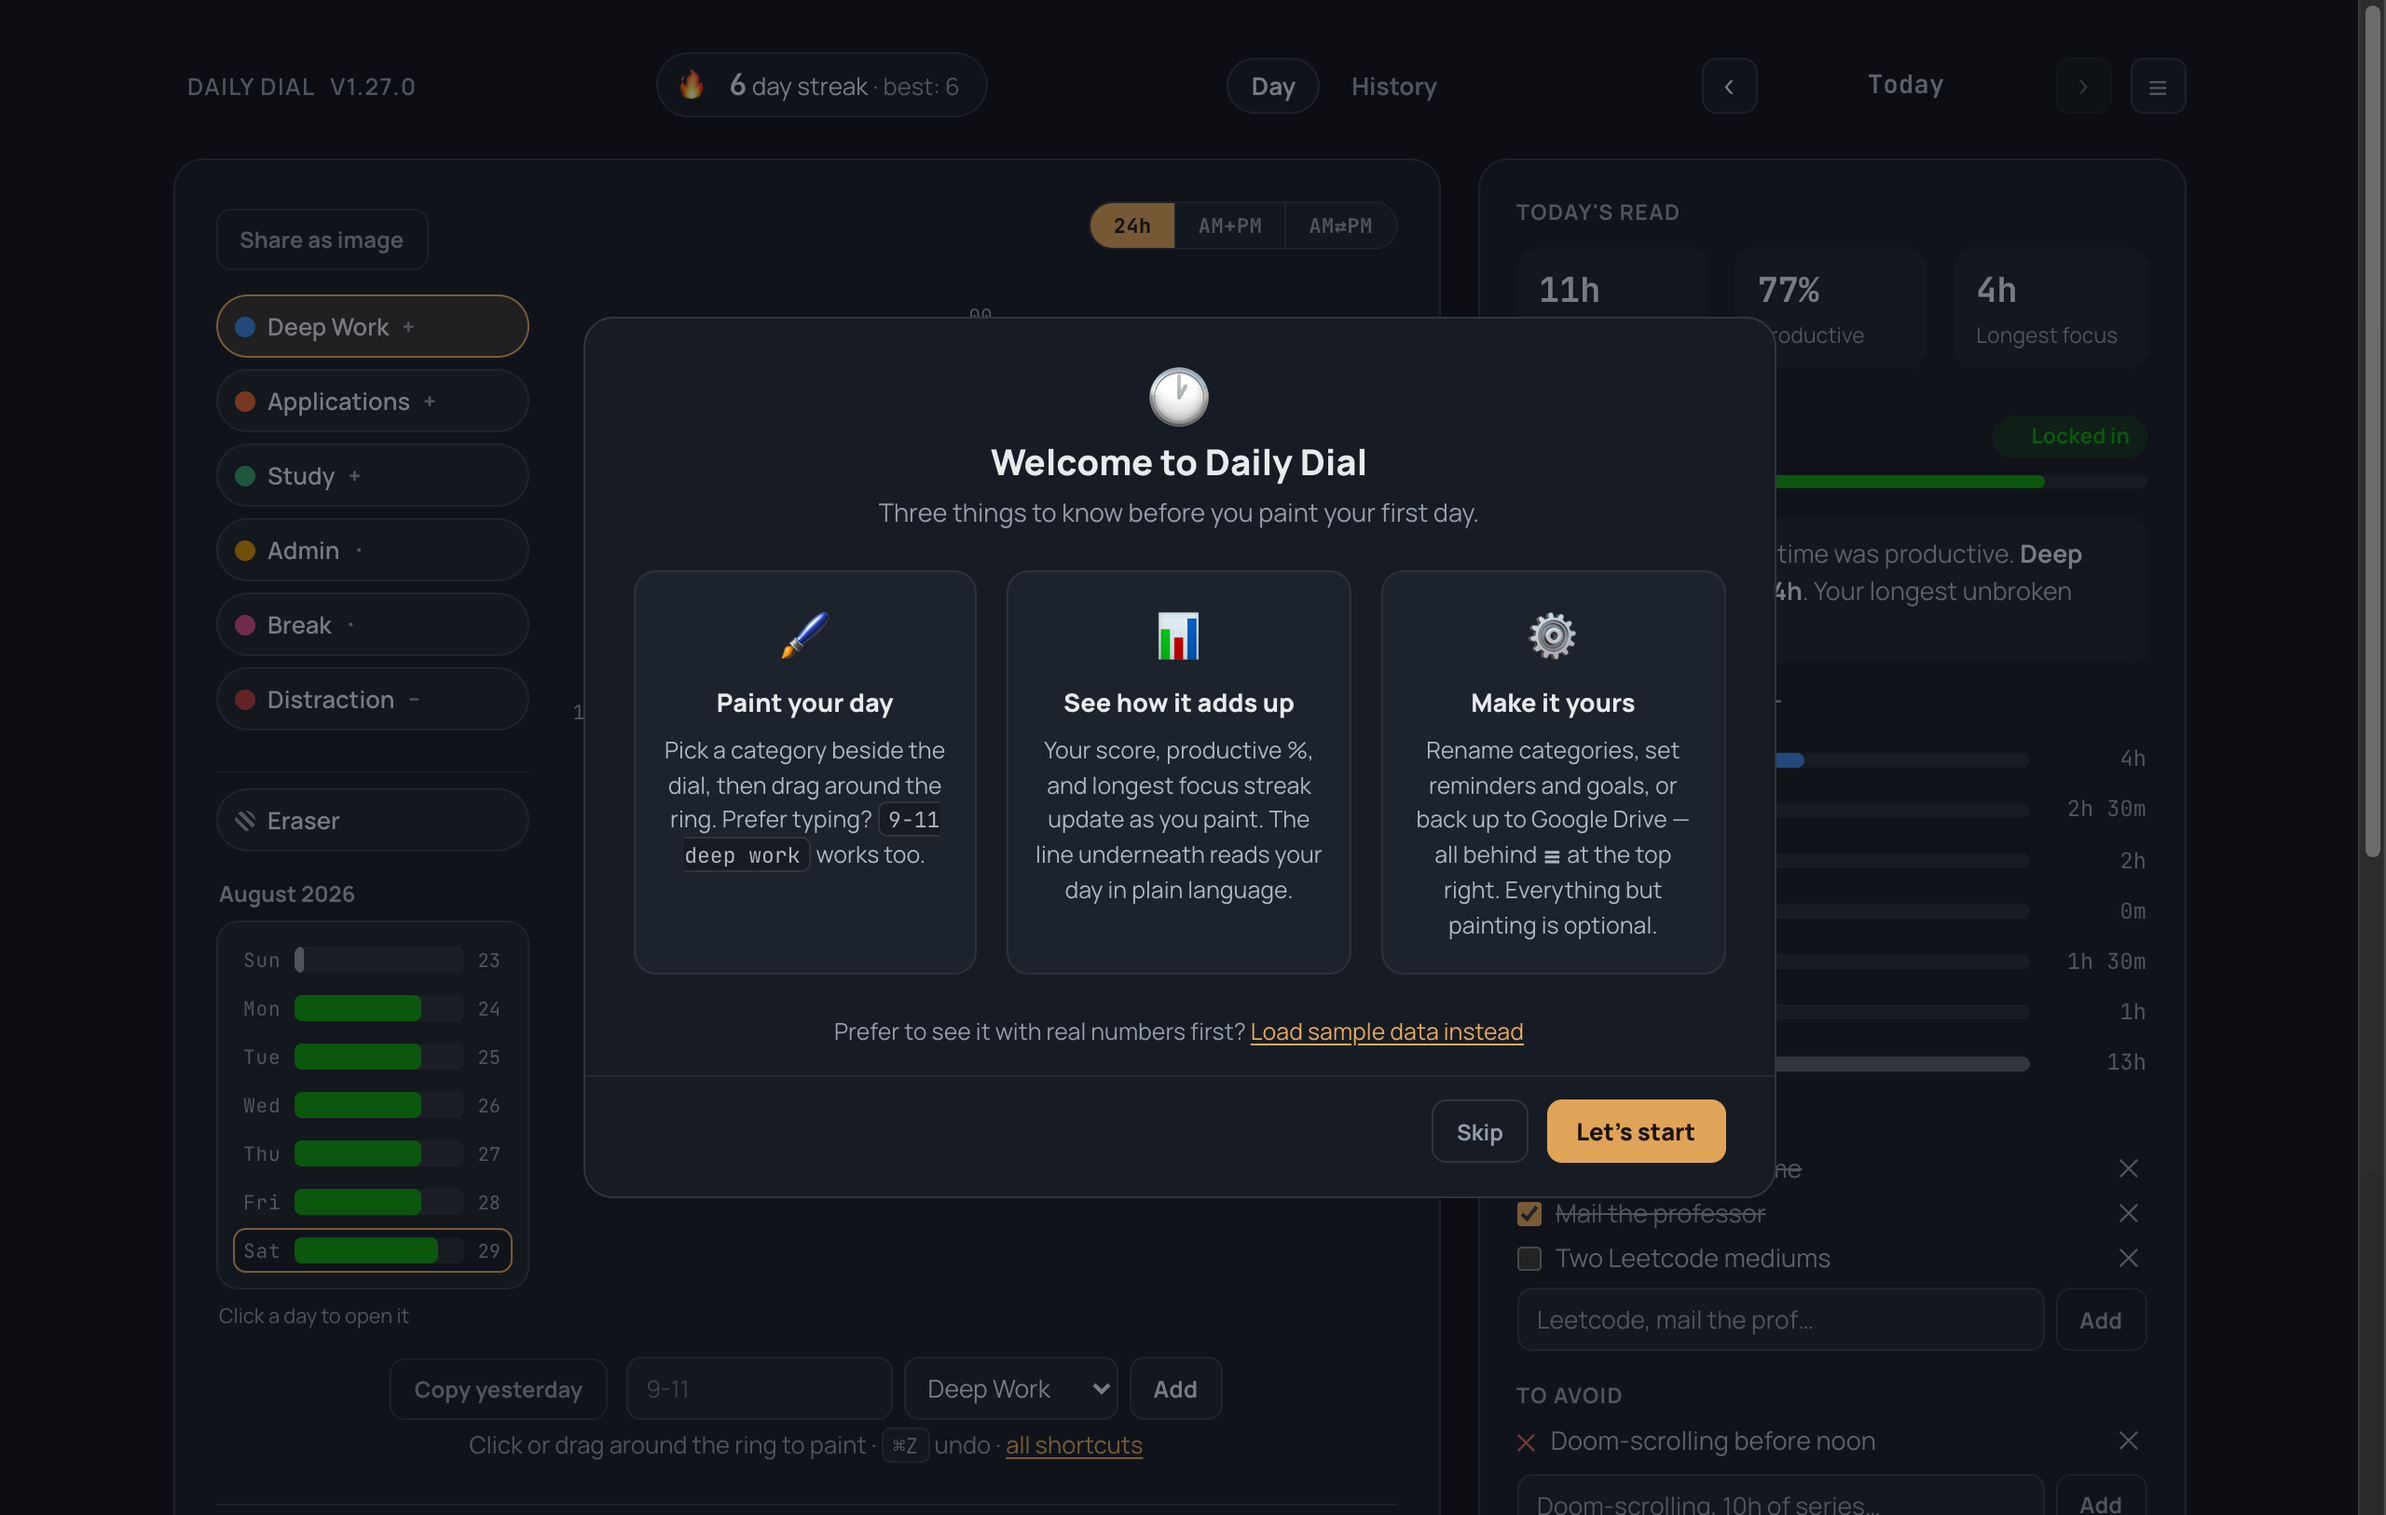
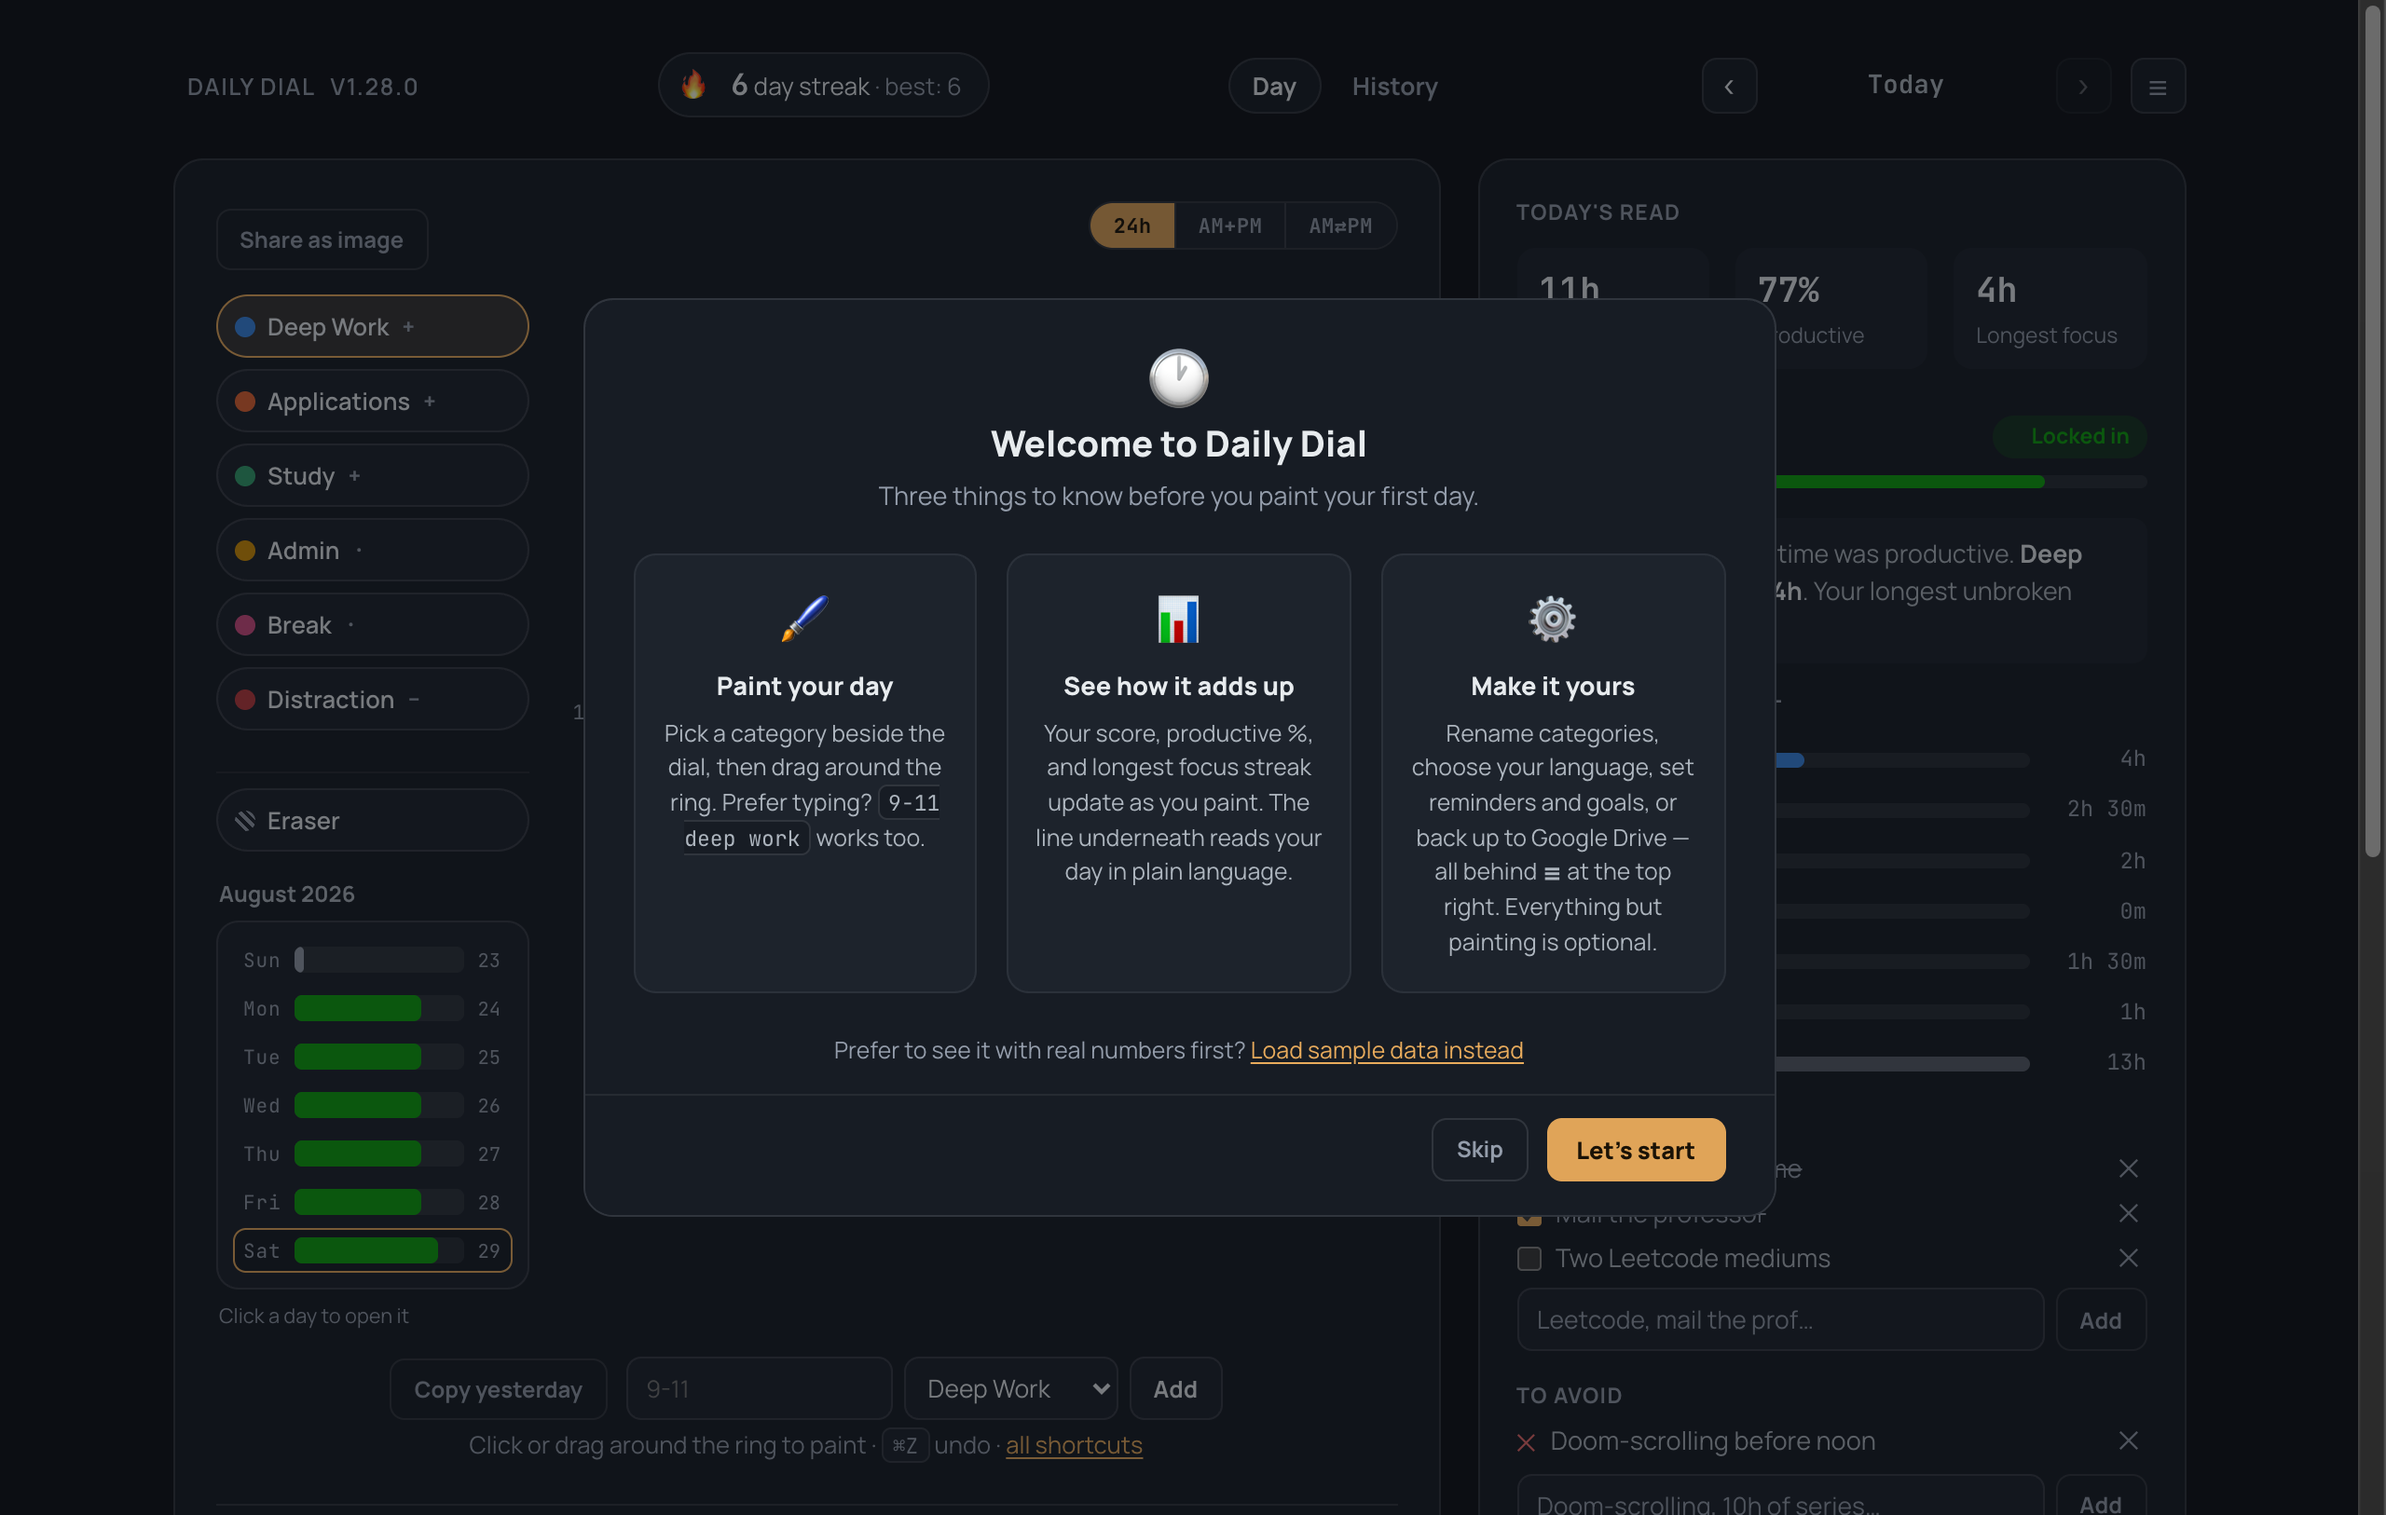
Bring every asset and reference up to v1.28.0
The getting-started screenshots were regenerated during the sanity
pass, while the version was still 1.27.0, so they carried a stale
wordmark and the tour card without the language line. Reshot: all
four now read v1.28.0 and show the current tour copy.

Also fixed a README example that had never worked. "Verifying the
published build" told you to run `git checkout v1.10.0` -- a tag that
does not exist and never did. The only tags in this repo are v1.1.0,
v1.7.3, v1.13.0 and v1.16.1. It now names the current version and
says to substitute whichever you installed.

The v1.14.0 reference in STORE_LISTING stays: it dates when the
account-email feature landed, which is a fact about history rather
than a stale pointer.

Verified before tagging: manifest, package.json and the changelog all
say 1.28.0; the three store screenshots are exactly 1280x800, which
the Web Store requires; 215 tests and all four guards pass.

diff --git a/README.md b/README.md
@@ -78,7 +78,7 @@ on macOS, `%LOCALAPPDATA%\Google\Chrome\User Data\Default\Extensions\` on
 Windows). Compare it against the matching tag:
 
 ```bash
-git checkout v1.10.0
+git checkout v1.28.0   # or whichever version you installed
 diff -r . "$CHROME_PROFILE/Extensions/mgcjgngceajnmfhkifccaoeccbmfikhn/<version>/"
 ```
 
